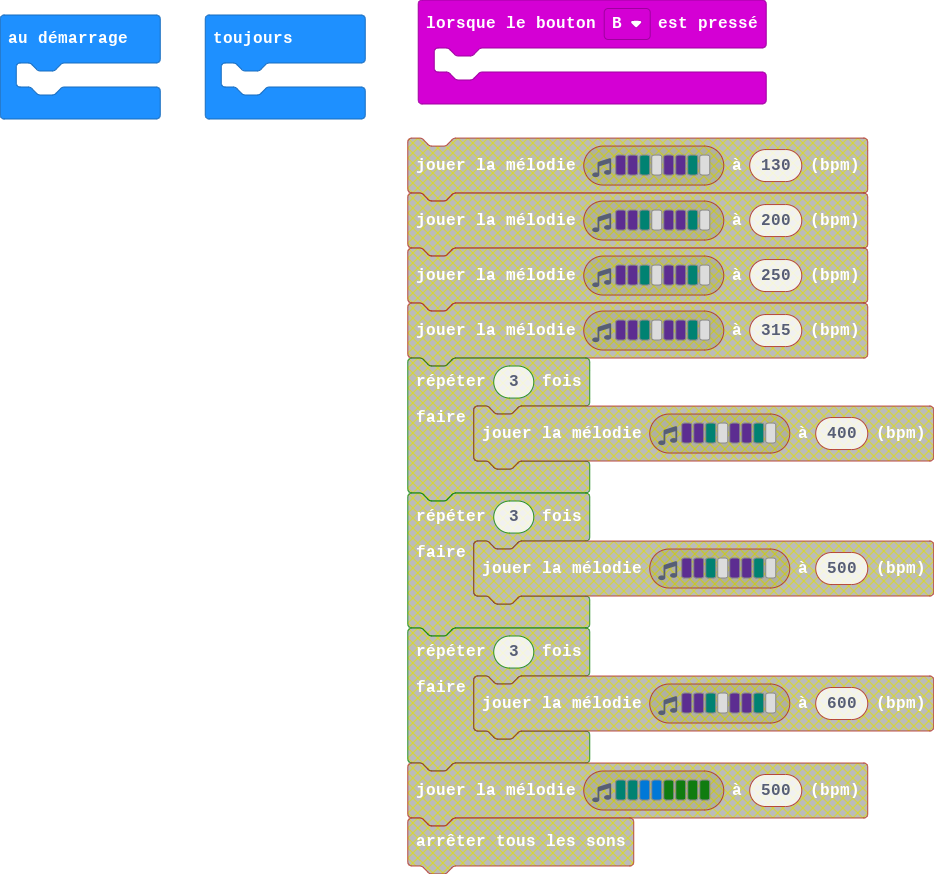
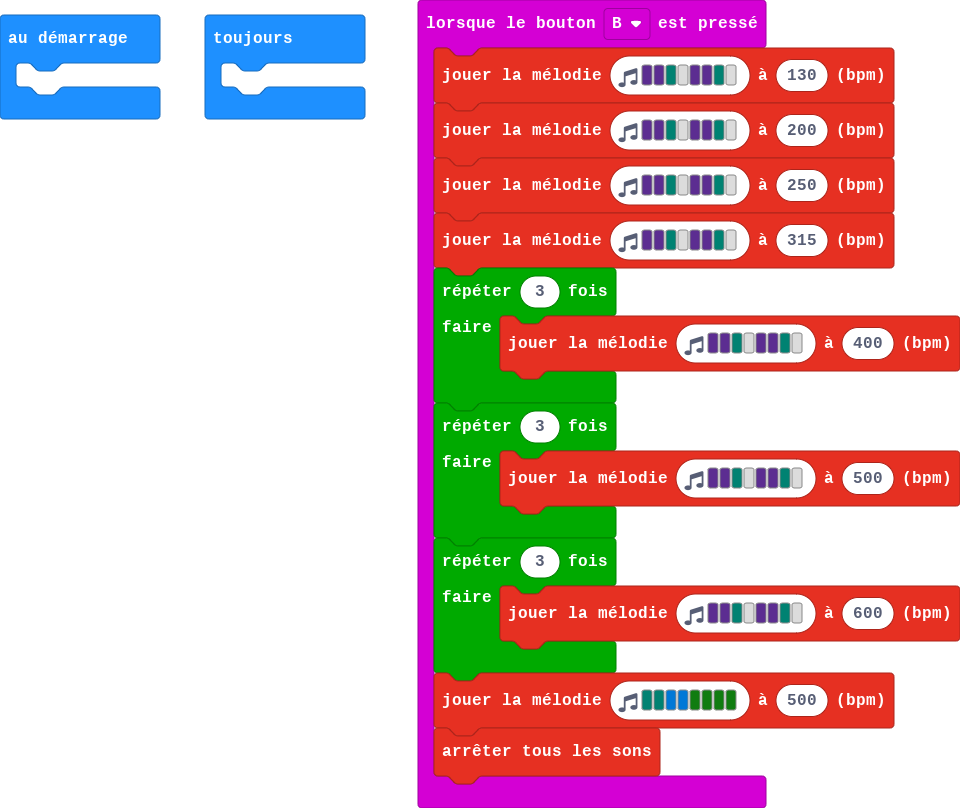
Mise à jour main.blocks, main.ts

diff --git a/main.ts b/main.ts
@@ -1,5 +1,19 @@
 input.onButtonPressed(Button.B, function () {
-	
+    music.playMelody("D D F - D D F - ", 130)
+    music.playMelody("D D F - D D F - ", 200)
+    music.playMelody("D D F - D D F - ", 250)
+    music.playMelody("D D F - D D F - ", 315)
+    for (let index = 0; index < 3; index++) {
+        music.playMelody("D D F - D D F - ", 400)
+    }
+    for (let index = 0; index < 3; index++) {
+        music.playMelody("D D F - D D F - ", 500)
+    }
+    for (let index = 0; index < 3; index++) {
+        music.playMelody("D D F - D D F - ", 600)
+    }
+    music.playMelody("F F E E G G G G ", 500)
+    music.stopAllSounds()
 })
 basic.forever(function () {
 	
